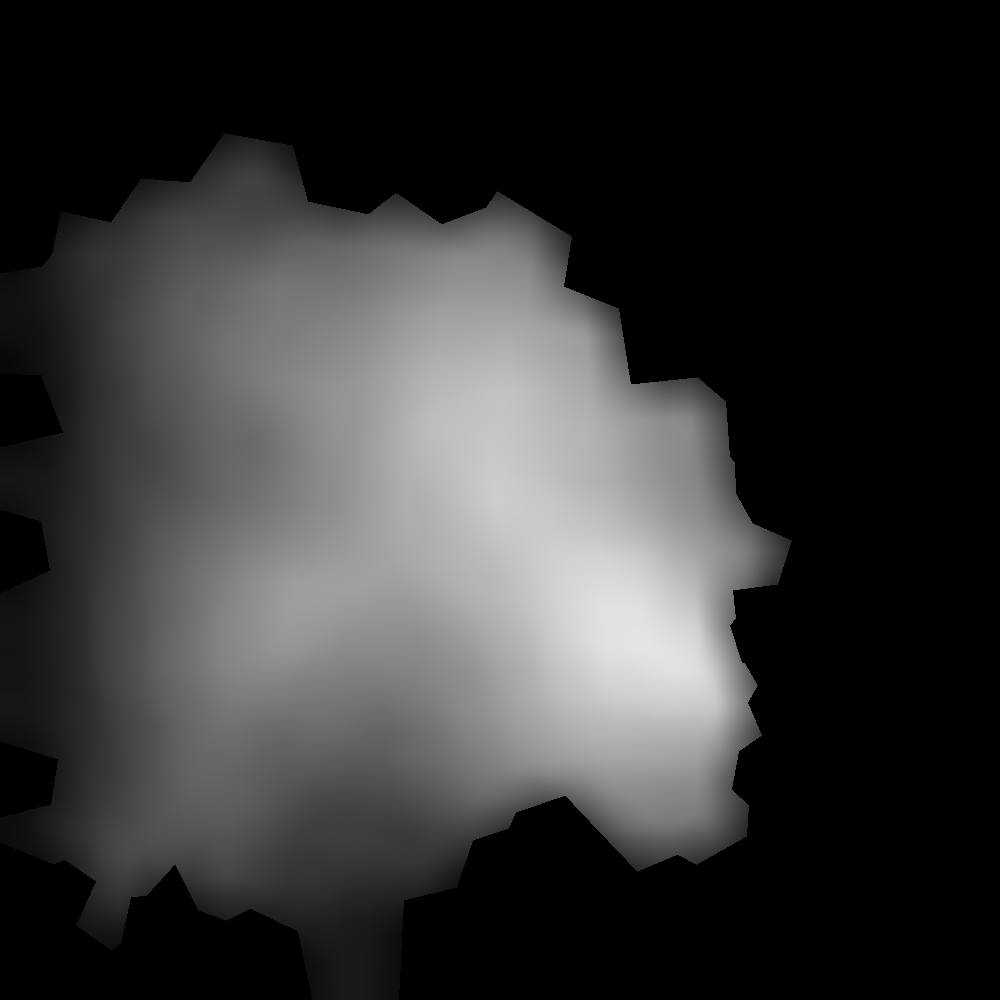
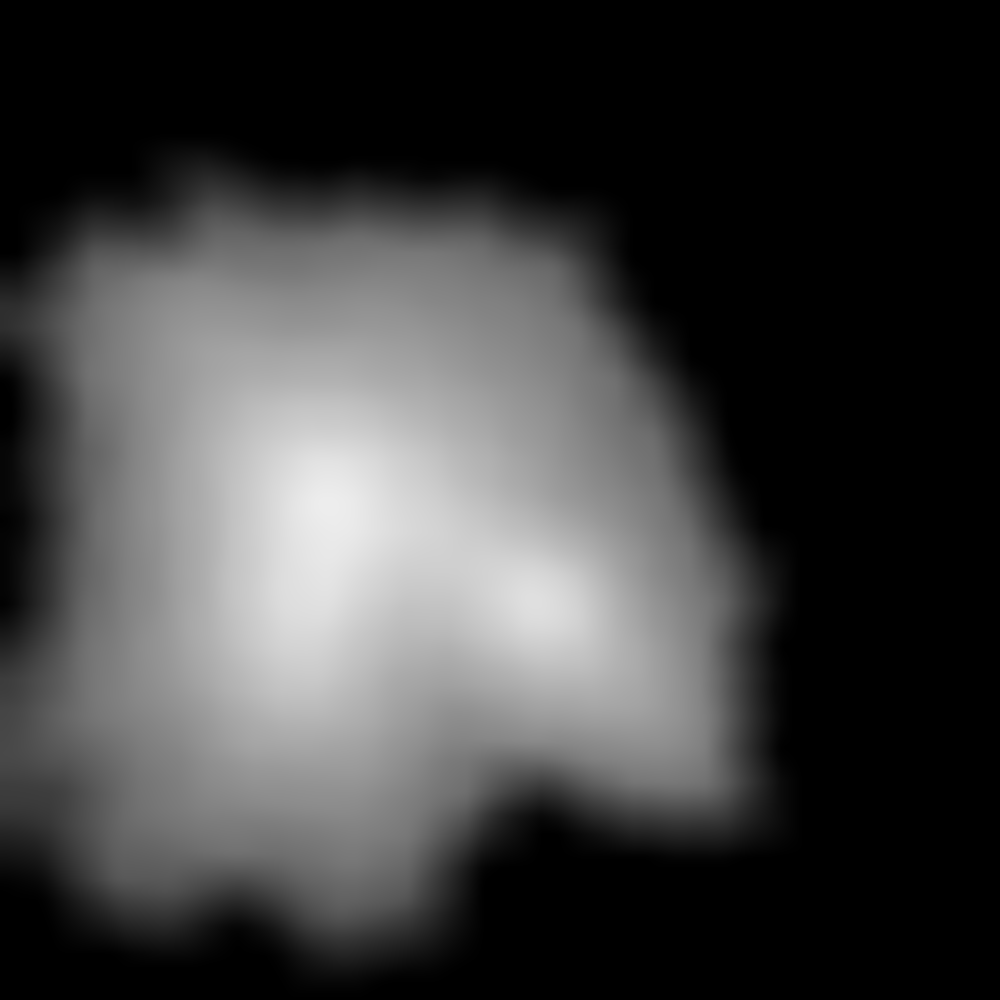
fix: correção da geração de terreno

diff --git a/src/map_geration/terrain.py b/src/map_geration/terrain.py
@@ -11,13 +11,22 @@ from shapely.geometry.polygon import Polygon
 from map_geration.map_enums import *
 
 def assign_terrain_from_image(image, graph: Graph):
+
+    def set_cost(center: Center, neighbor: Center):
+        center.terrain_type = TerrainType.COAST
+
+        for corner_n in neighbor.corners:
+            for corner_c in center.corners:
+                if corner_n == corner_c:
+                    corner_c.terrain_type = TerrainType.COAST
+
     def generate_coast(center: Center, visited: list=[]):
         if center in visited: return
         visited.append(center)
         
         for neighbor in center.neighbors:
             if neighbor.terrain_type == TerrainType.OCEAN:
-                center.terrain_type = TerrainType.COAST
+                set_cost(center, neighbor)
                 continue
             
             generate_coast(neighbor)
@@ -46,7 +55,9 @@ def assign_terrain_from_image(image, graph: Graph):
                 if polygons[i].contains(point):
                     break
             
-            graph.centers[i].terrain_type = TerrainType.LAND
+            center: Center = graph.centers[i]
+            center.terrain_type = TerrainType.LAND
+            for corner in center.corners: corner.terrain_type = TerrainType.LAND
 
     logging.info("Procurando o primeiro poligono LAND")
     a_land_center = graph.centers[0]

diff --git a/src/map_geration/draw_map.py b/src/map_geration/draw_map.py
@@ -19,9 +19,9 @@ def pos_processing(image):
     
     _, mask = cv2.threshold(open_cv_image, 1, 255, 0)
     blur_image = cv2.blur(open_cv_image, KERNEL_SIZE)
-    open_cv_image = cv2.bitwise_and(blur_image, blur_image, mask=mask)
+    #open_cv_image = cv2.bitwise_and(blur_image, blur_image, mask=mask)
 
-    return Image.fromarray(open_cv_image)
+    return Image.fromarray(blur_image)
 
 
 def convert_map_to_3d_image(

diff --git a/src/main.py b/src/main.py
@@ -33,7 +33,7 @@ class MapWorker(QObject):
     finished = pyqtSignal()
     result = pyqtSignal(QImage)
     image = None
-    points = 250
+    points = 450
 
     def run(self):
         logging.info("MapWorker em execução")
